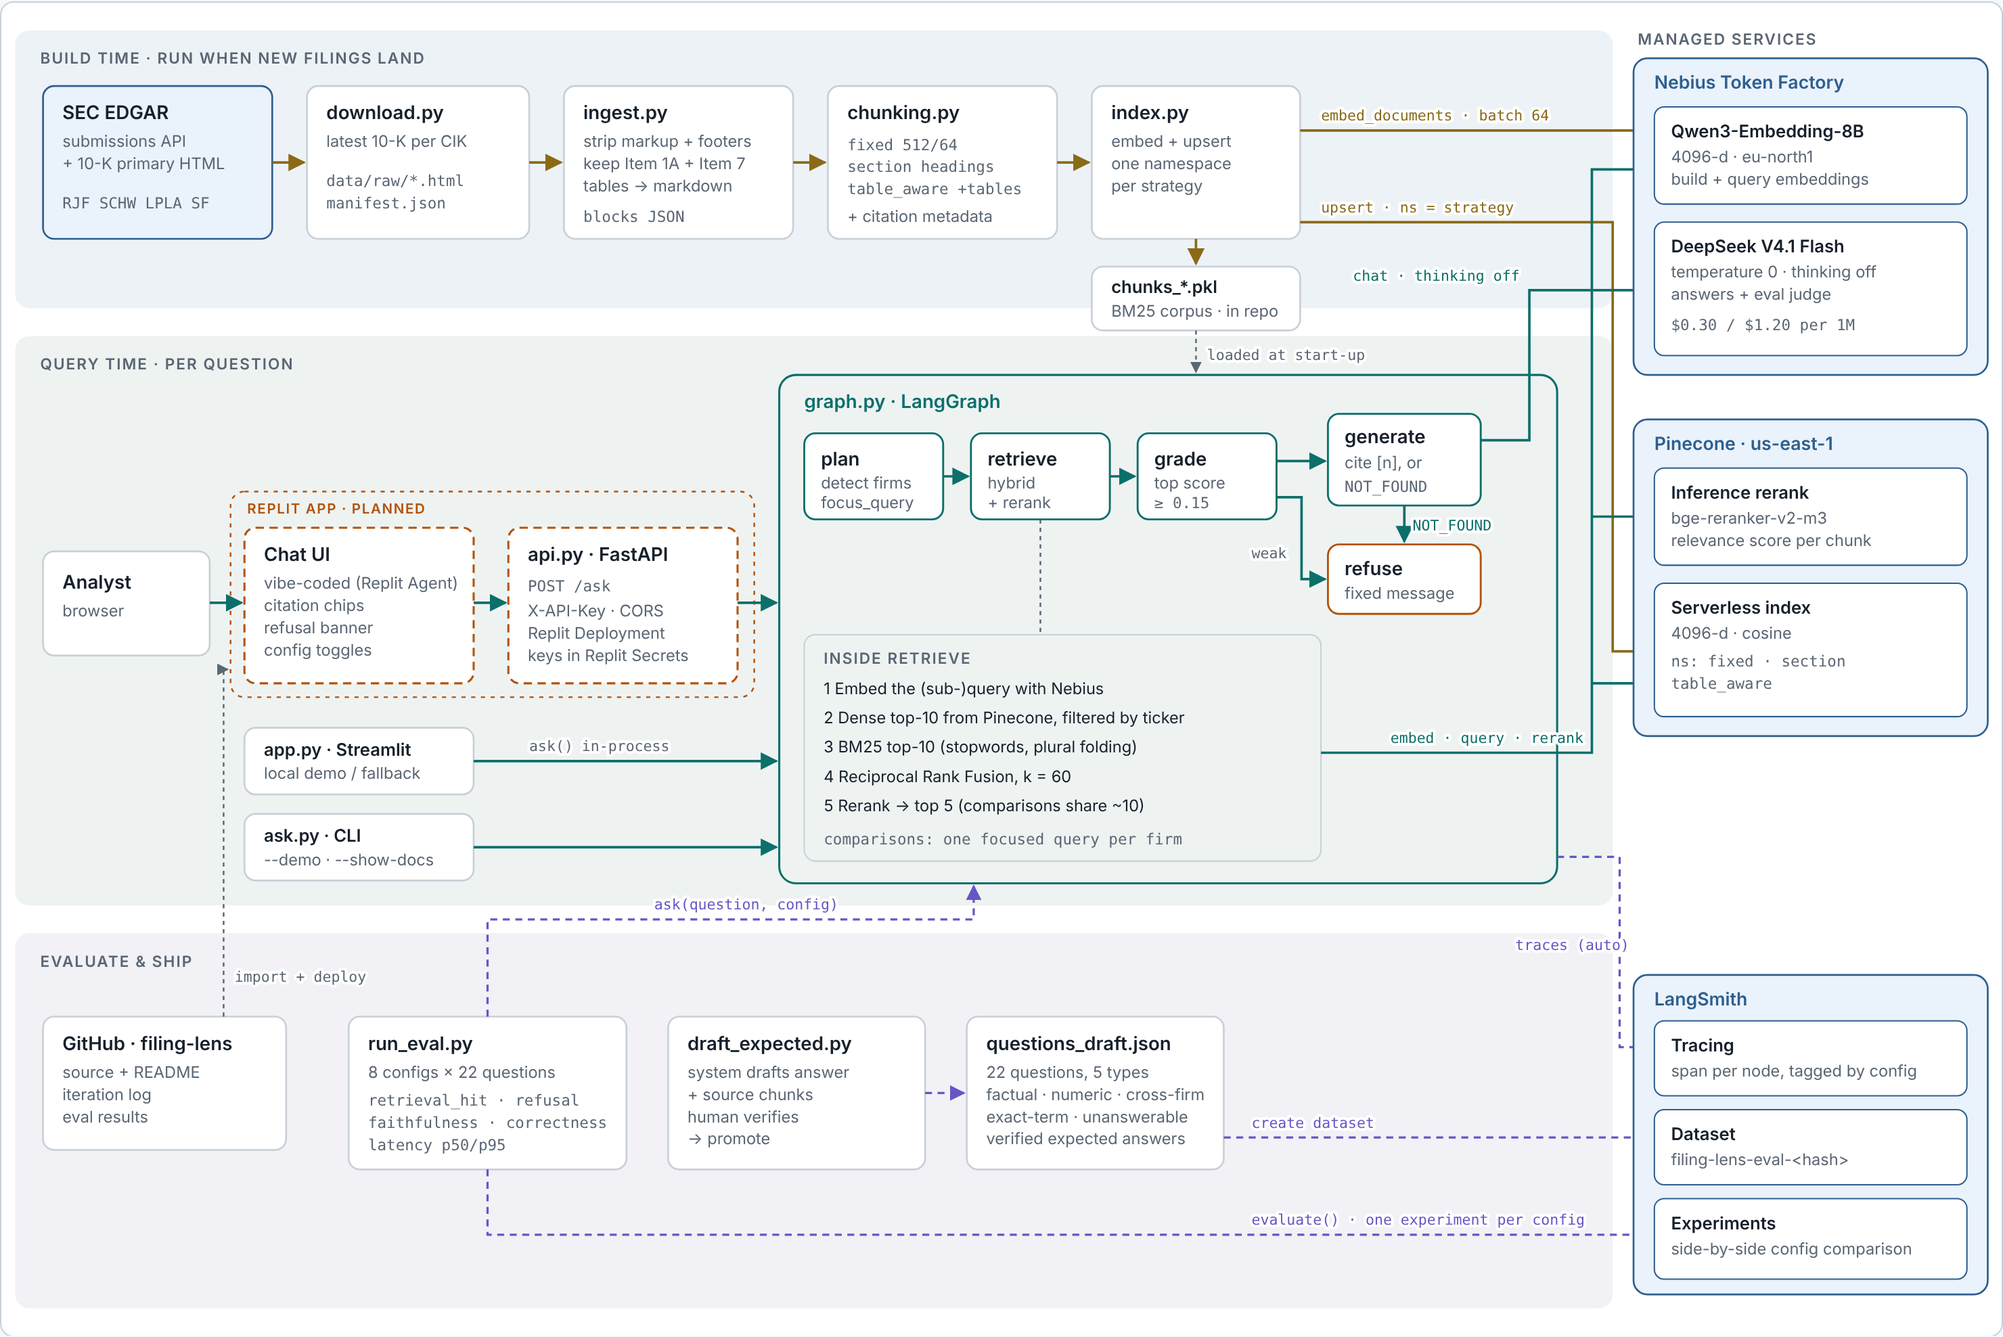
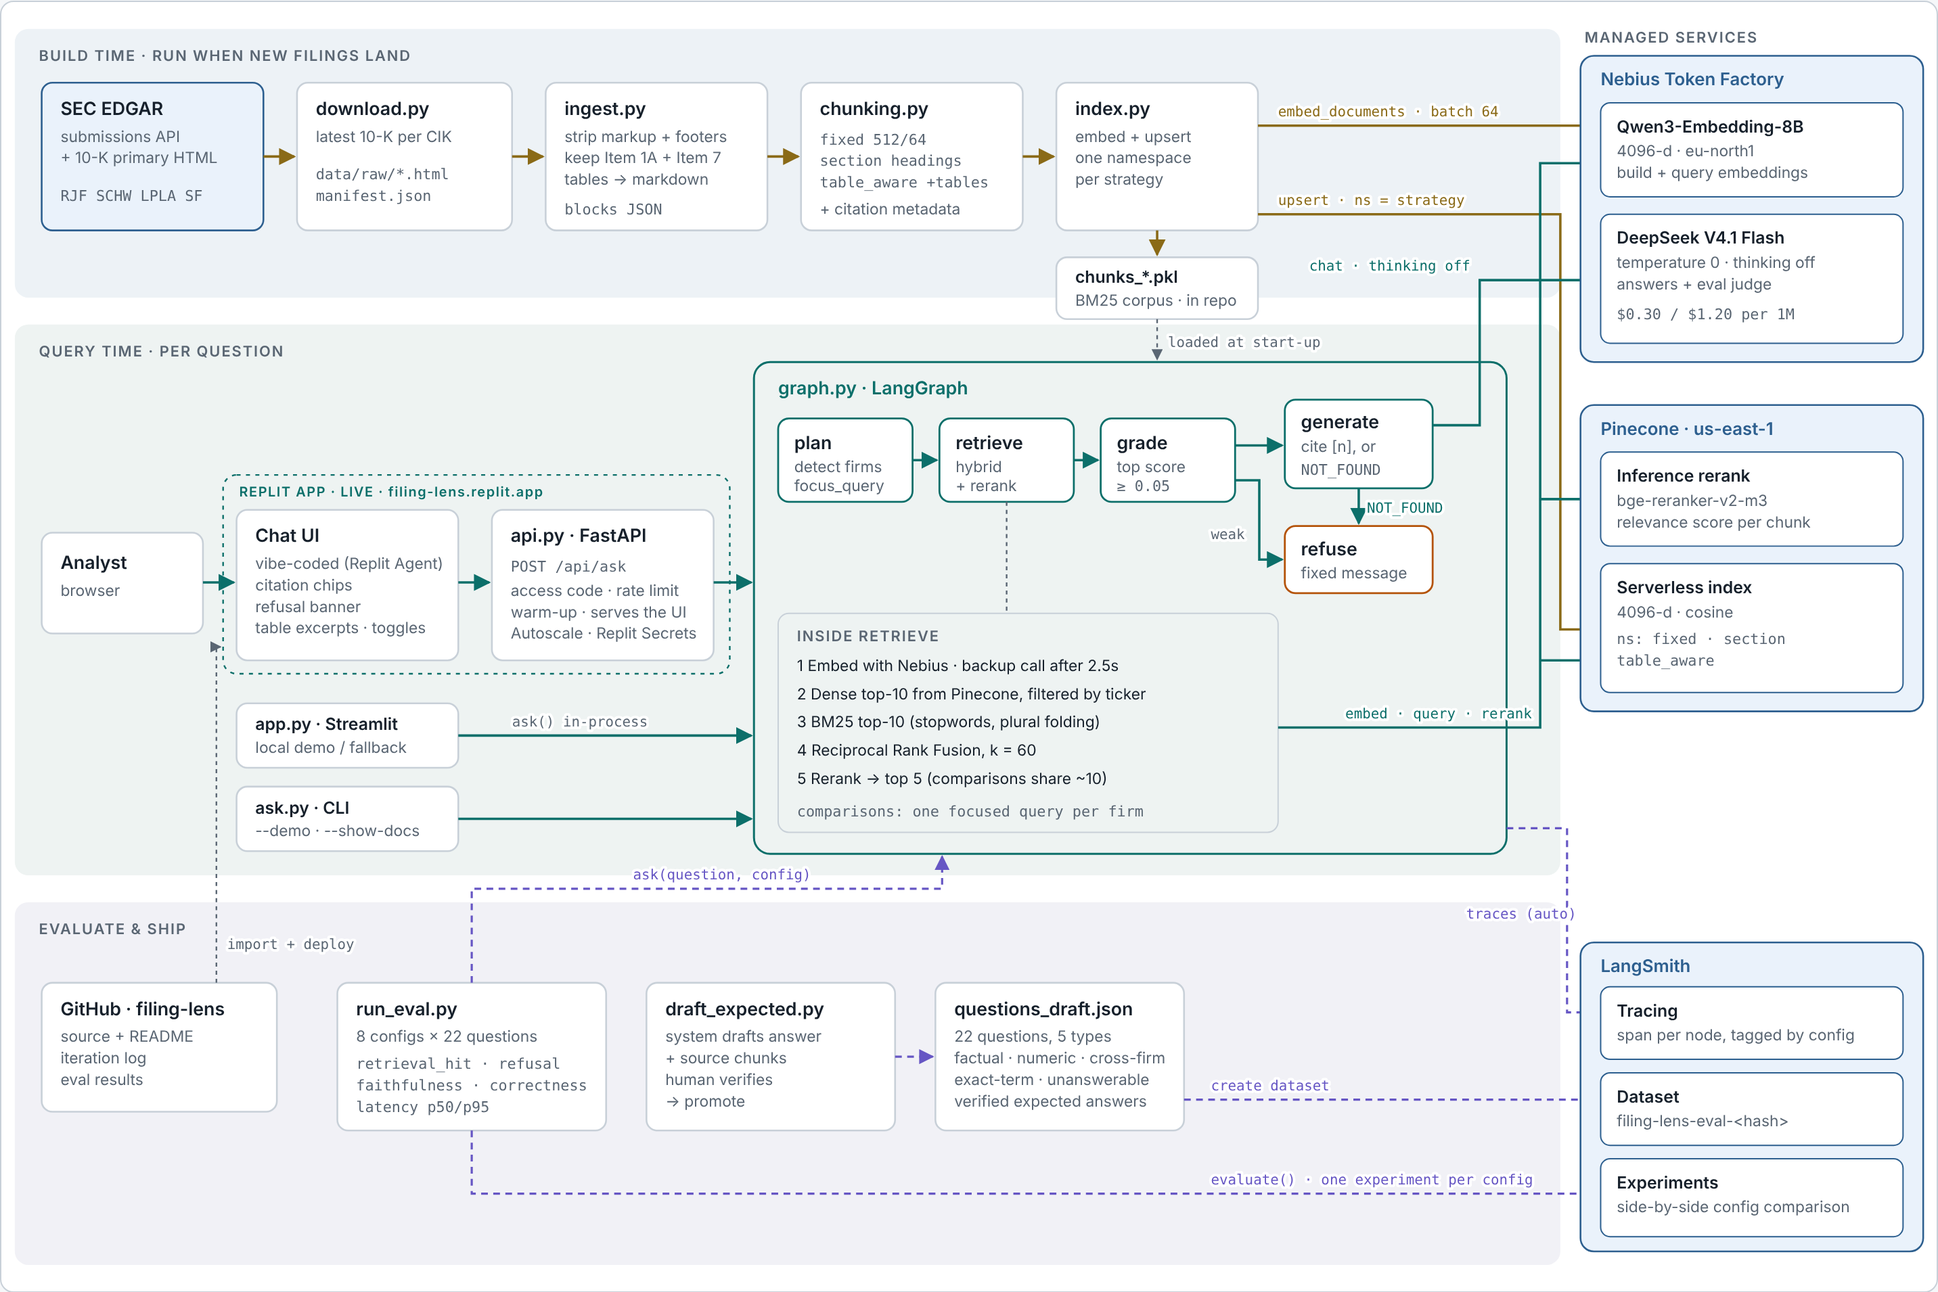
Docs: Day 4 iteration log, threshold re-run, architecture marked live

diff --git a/docs/architecture.html b/docs/architecture.html
@@ -52,6 +52,8 @@ svg .svcg { fill: var(--svc-bg); stroke: var(--svc); stroke-width: 1.3; }
 svg .svcbox { fill: var(--panel); stroke: var(--svc); stroke-width: 1; }
 svg .svc-title { font-size: 13px; font-weight: 600; fill: var(--svc); }
 svg .planned { fill: var(--panel); stroke: var(--planned); stroke-width: 1.5; stroke-dasharray: 6 4; }
+svg .live-group { fill: none; stroke: var(--q); stroke-width: 1.2; stroke-dasharray: 3 4; }
+svg .tag.live { fill: var(--q); }
 svg .planned-group { fill: none; stroke: var(--planned); stroke-width: 1.2; stroke-dasharray: 3 4; }
 svg .tag { font-size: 10px; font-weight: 600; letter-spacing: 0.08em; fill: var(--planned); }
 svg .graph { fill: none; stroke: var(--q); stroke-width: 1.5; }
@@ -93,7 +95,6 @@ td code, .notes code { font-family: var(--mono); font-size: 0.8rem; }
   <span><i class="sw q"></i>Query-time flow</span>
   <span><i class="sw o"></i>Tracing &amp; evaluation</span>
   <span><i class="box-sw built"></i>Built</span>
-  <span><i class="box-sw pl"></i>Planned (Friday)</span>
   <span><i class="box-sw svc"></i>Managed service</span>
 </div>
 
@@ -170,22 +171,22 @@ td code, .notes code { font-family: var(--mono); font-size: 0.8rem; }
   <text class="t" x="44" y="422">Analyst</text>
   <text class="s" x="44" y="442">browser</text>
 
-  <rect class="planned-group" x="165" y="352" width="377" height="148" rx="10"/>
-  <text class="tag" x="177" y="368">REPLIT APP · PLANNED</text>
+  <rect class="live-group" x="165" y="352" width="377" height="148" rx="10"/>
+  <text class="tag live" x="177" y="368">REPLIT APP · LIVE · filing-lens.replit.app</text>
 
-  <rect class="planned" x="175" y="378" width="165" height="112" rx="8"/>
+  <rect class="box" x="175" y="378" width="165" height="112" rx="8"/>
   <text class="t" x="189" y="402">Chat UI</text>
   <text class="s" x="189" y="422">vibe-coded (Replit Agent)</text>
   <text class="s" x="189" y="438">citation chips</text>
   <text class="s" x="189" y="454">refusal banner</text>
-  <text class="s" x="189" y="470">config toggles</text>
+  <text class="s" x="189" y="470">table excerpts · toggles</text>
 
-  <rect class="planned" x="365" y="378" width="165" height="112" rx="8"/>
+  <rect class="box" x="365" y="378" width="165" height="112" rx="8"/>
   <text class="t" x="379" y="402">api.py · FastAPI</text>
-  <text class="m" x="379" y="424">POST /ask</text>
-  <text class="s" x="379" y="442">X-API-Key · CORS</text>
-  <text class="s" x="379" y="458">Replit Deployment</text>
-  <text class="s" x="379" y="474">keys in Replit Secrets</text>
+  <text class="m" x="379" y="424">POST /api/ask</text>
+  <text class="s" x="379" y="442">access code · rate limit</text>
+  <text class="s" x="379" y="458">warm-up · serves the UI</text>
+  <text class="s" x="379" y="474">Autoscale · Replit Secrets</text>
 
   <path class="e-q" d="M150 432 H173" marker-end="url(#aq)"/>
   <path class="e-q" d="M340 432 H363" marker-end="url(#aq)"/>
@@ -218,7 +219,7 @@ td code, .notes code { font-family: var(--mono); font-size: 0.8rem; }
   <rect class="node" x="818" y="310" width="100" height="62" rx="8"/>
   <text class="t" x="830" y="333">grade</text>
   <text class="s" x="830" y="350">top score</text>
-  <text class="m" x="830" y="364">≥ 0.15</text>
+  <text class="m" x="830" y="364">≥ 0.05</text>
 
   <rect class="node" x="955" y="296" width="110" height="66" rx="8"/>
   <text class="t" x="967" y="317">generate</text>
@@ -241,7 +242,7 @@ td code, .notes code { font-family: var(--mono); font-size: 0.8rem; }
   <path class="e-link" d="M748 372 V453"/>
   <rect class="panel" x="578" y="455" width="372" height="163" rx="8"/>
   <text class="lane-label" x="592" y="476">INSIDE RETRIEVE</text>
-  <text class="s" x="592" y="498" style="fill:var(--ink)">1  Embed the (sub-)query with Nebius</text>
+  <text class="s" x="592" y="498" style="fill:var(--ink)">1  Embed with Nebius · backup call after 2.5s</text>
   <text class="s" x="592" y="519" style="fill:var(--ink)">2  Dense top-10 from Pinecone, filtered by ticker</text>
   <text class="s" x="592" y="540" style="fill:var(--ink)">3  BM25 top-10 (stopwords, plural folding)</text>
   <text class="s" x="592" y="561" style="fill:var(--ink)">4  Reciprocal Rank Fusion, k = 60</text>
@@ -347,7 +348,7 @@ td code, .notes code { font-family: var(--mono); font-size: 0.8rem; }
 <table>
   <thead><tr><th>From → To</th><th>Interface</th><th>Payload</th><th>Status</th></tr></thead>
   <tbody>
-    <tr><td>Chat UI → api.py</td><td>HTTPS <code>POST /ask</code>, <code>X-API-Key</code> header, CORS for the UI origin</td><td><code>{question, strategy?, retriever?, rerank?}</code> → <code>{answer, citations[], refused, refusal_reason, timings}</code></td><td><span class="chip planned">PLANNED</span></td></tr>
+    <tr><td>Chat UI → api.py</td><td>HTTPS <code>POST /api/ask</code>, same origin, <code>X-Access-Code</code> typed by the user</td><td><code>{question, strategy?, retriever?, rerank?}</code> → <code>{answer, citations[] (with excerpt), refused, refusal_reason, companies, top_score, timings, config}</code></td><td><span class="chip built">BUILT</span></td></tr>
     <tr><td>api.py · app.py · ask.py → graph.py</td><td>In-process Python call <code>ask()</code></td><td>Question + config in, <code>RAGState</code> out</td><td><span class="chip built">BUILT</span></td></tr>
     <tr><td>retrieve → Nebius</td><td>OpenAI-compatible embeddings via <code>langchain-nebius</code></td><td>One 4096-d vector per (sub-)query</td><td><span class="chip built">BUILT</span></td></tr>
     <tr><td>retrieve → Pinecone index</td><td>Vector query, top-10, metadata filter <code>ticker</code>, namespace = strategy</td><td>Chunk text + ticker, item, heading, kind, <code>chunk_id</code></td><td><span class="chip built">BUILT</span></td></tr>

diff --git a/docs/ARCHITECTURE.md b/docs/ARCHITECTURE.md
@@ -4,7 +4,7 @@ Hybrid RAG over the latest 10-K filings of Raymond James (RJF), Charles Schwab (
 
 ![Filing Lens architecture](filing-lens-architecture.png)
 
-**Status:** the pipeline, evaluation and FastAPI service are built. The Replit chat UI and hosted deployment are *planned* (Friday).
+**Status:** built and live. The chat UI and API run as one Replit Autoscale deployment at [filing-lens.replit.app](https://filing-lens.replit.app) (access code required).
 
 ---
 
@@ -28,9 +28,9 @@ flowchart TB
 
   subgraph QUERY["② Query"]
     direction LR
-    UI["Chat UI · Replit<br/>(planned)"] -->|"POST /api/ask"| API["api.py · FastAPI"] --> PLAN
+    UI["Chat UI · Replit<br/>(live)"] -->|"POST /api/ask"| API["api.py · FastAPI"] --> PLAN
     LOCAL["app.py · ask.py"] --> PLAN
-    PLAN["plan"] --> RET["retrieve<br/>dense + BM25 → RRF → rerank"] --> GRADE{"grade<br/>≥ 0.15"}
+    PLAN["plan"] --> RET["retrieve<br/>dense + BM25 → RRF → rerank"] --> GRADE{"grade<br/>≥ 0.05"}
     GRADE -->|relevant| GEN["generate<br/>cited answer"]
     GRADE -->|weak| REF["refuse"]
     GEN -->|NOT_FOUND| REF
@@ -84,7 +84,7 @@ sequenceDiagram
     G->>G: BM25 top-10, fuse with RRF
     G->>P: rerank candidates
   end
-  G->>G: grade: best score ≥ 0.15?
+  G->>G: grade: best score ≥ 0.05?
   G->>N: generate with numbered context (thinking off)
   N-->>G: cited answer, or NOT_FOUND
   G-->>L: spans for every node (async)
@@ -114,7 +114,7 @@ sequenceDiagram
 
 | From → To | Interface | Payload | Status |
 |---|---|---|---|
-| Chat UI → `api.py` | HTTPS `POST /api/ask`, same origin, `X-Access-Code` header typed by the user | `{question, strategy?, retriever?, rerank?}` → `{answer, citations[] (with excerpt), refused, refusal_reason, companies, top_score, timings, config}` | API built · UI planned |
+| Chat UI → `api.py` | HTTPS `POST /api/ask`, same origin, `X-Access-Code` header typed by the user | `{question, strategy?, retriever?, rerank?}` → `{answer, citations[] (with excerpt), refused, refusal_reason, companies, top_score, timings, config}` | Built |
 | `api.py` / `app.py` / `ask.py` → `graph.py` | In-process `ask()` | Question + config in, `RAGState` out | Built |
 | retrieve → Nebius | OpenAI-compatible embeddings (`langchain-nebius`) | One 4096-d vector per (sub-)query | Built |
 | retrieve → Pinecone index | Vector query, top-10, `ticker` filter, namespace = strategy | Chunk text + `ticker`, `item`, `heading`, `kind`, `chunk_id` | Built |
@@ -130,7 +130,7 @@ sequenceDiagram
 | Piece | Where | Secrets |
 |---|---|---|
 | Source, chunk files, eval results | GitHub | none (`.env` is git-ignored) |
-| `api.py` + chat UI | Replit app imported from GitHub, Autoscale deployment ([setup](REPLIT_SETUP.md)) | Replit Secrets: Nebius, Pinecone, LangSmith keys, `APP_ACCESS_CODE` |
+| `api.py` + chat UI | Replit app imported from GitHub, Autoscale deployment with 1 machine at [filing-lens.replit.app](https://filing-lens.replit.app) ([setup](REPLIT_SETUP.md)) | Replit Secrets: Nebius, Pinecone, LangSmith keys, `APP_ACCESS_CODE` |
 | Vectors, rerank | Pinecone serverless, AWS us-east-1 | `PINECONE_API_KEY` |
 | Embeddings, generation, eval judge | Nebius Token Factory (embeddings served from eu-north1) | `NEBIUS_API_KEY` |
 | Traces, dataset, experiments | LangSmith | `LANGSMITH_API_KEY` |
@@ -145,7 +145,13 @@ sequenceDiagram
 
 **Hybrid over keyword-only.** BM25 alone failed the RJF vs LPL revenue question: numeric tables share few words with the question. Dense retrieval recovers them; BM25 still helps on exact terms such as program names.
 
-**Latency.** The chat model emitted hidden reasoning tokens even though the catalog lists none; disabling it (`chat_template_kwargs.thinking=false`) and warming clients at start-up brought demo questions to 1.9–6.4s end to end. The largest remaining cost is the cross-region embedding call (Nebius eu-north1, Pinecone us-east-1).
+**Latency.** The chat model emitted hidden reasoning tokens even though the catalog lists none; disabling it (`chat_template_kwargs.thinking=false`) brought demo questions to 1.9–6.4s end to end. On Replit three more fixes followed, each found from the per-step timings the API returns:
+
+- Warm-up runs one real retrieval per namespace, not just client set-up: the first live answer went from 37.1s to 2.8s.
+- Comparisons embed each firm's query one at a time before the parallel search: concurrent calls to the shared Nebius embedding endpoint took ~9s each. 17.9s → 4.6s.
+- Embedding calls are hedged: if Nebius hasn't answered in 2.5s, a backup request goes out and the first answer wins. LangSmith showed `embed_query` at 10.6s of a 12.9s question while Pinecone, rerank and generation stayed fast. When both requests stall, the spike remains; a dedicated endpoint would remove it.
+
+**Relevance threshold 0.05.** At 0.15, "What does LPL say about cybersecurity risk?" was refused although the right chunks ranked 2nd and 5th: the reranker scored them 0.11 because the filing says "security risks" and "cyber-attack". At 0.05 the eval's correctness rose from 0.72 to 0.81 with refusal accuracy unchanged, since the generation gate still refuses unanswerable questions.
 
 ---
 

diff --git a/README.md b/README.md
@@ -69,7 +69,7 @@ Judge: an OpenAI model (`JUDGE_MODEL`, default `gpt-4.1-mini`) grades faithfulne
 uvicorn api:app --reload --port 8000     # docs at http://localhost:8000/docs
 ```
 `POST /api/ask` returns the answer, citations with source excerpts, refusal reason, timings and config. Set `APP_ACCESS_CODE` to require an access code (sent as `X-Access-Code`); a per-IP rate limit caps spend.
-Hosting: one Replit app serves the API and the vibe-coded front end. Setup: [docs/REPLIT_SETUP.md](docs/REPLIT_SETUP.md). Agent prompt: [docs/REPLIT_AGENT_PROMPT.md](docs/REPLIT_AGENT_PROMPT.md).
+**Live:** [filing-lens.replit.app](https://filing-lens.replit.app) (access code required). Hosting: one Replit app serves the API and the vibe-coded front end. Setup: [docs/REPLIT_SETUP.md](docs/REPLIT_SETUP.md). Agent prompt: [docs/REPLIT_AGENT_PROMPT.md](docs/REPLIT_AGENT_PROMPT.md).
 
 ## Local chat UI (Streamlit)
 
@@ -113,3 +113,11 @@ Record every change and its effect here; it becomes the "iterations + learnings"
 - Day 3 ground truth: system-drafted expected answers checked claim by claim against their source passages; unverifiable claims removed; F01, C04 (Schwab's chunks fell below the relevance threshold) and N04 (Institutional Group table not retrieved) written from filing text.
 - Day 3 full eval (22 Qs x 8 configs, `docs/EVALUATION.md`): structured chunking beats fixed on correctness (0.72 vs 0.56); table_aware wins numeric (0.92 vs 0.33 fixed), section wins cross-company (0.88), fixed wins narrative factual (0.67 vs 0.50 table_aware: tables crowd prose). Rerank adds 0.11-0.17 correctness for every retriever. All 32 unanswerable cases refused. Default chosen: table_aware/hybrid+rerank (refusal 0.95, faithfulness 0.92, correctness 0.72, p50 2.65s).
 - Day 3 fixed re-run in isolation: latency 2.74s avg (vs 9.36s in the shared run, a warm-up artifact); correctness 0.53 vs 0.56 and faithfulness 0.95 vs 0.89 give a run-to-run noise band of about ±0.05.
+
+- Day 4 hosting: first live answer took 37.1s (retrieve 35.6s) although warm-up had loaded the clients: the first Pinecone query and rerank call were still cold. Warm-up now runs one real retrieval per namespace, and `/api/ask` returns `retrieve_breakdown`. Same question: 2.8s.
+- Day 4 comparison latency on Replit: 17.9s with embed 18.3s summed across the two per-firm threads (~9s each vs 0.5s alone): concurrent calls to the shared Nebius embedding endpoint slow each other. Per-firm queries are now embedded one at a time, then searched in parallel: 4.6s.
+- Day 4 latency spikes: some single-firm questions still took 10-12s. LangSmith trace: `embed_query` 10.59s of 12.94s; Pinecone 0.3s, rerank 0.53s, generate 1.49s; the same call from a laptop took 0.56s. Embedding calls are now hedged (backup request after 2.5s, first answer wins): rescued one stall (3.0s), but when both requests stall the spike remains (11.2s). Documented as a provider limitation; a dedicated endpoint would remove it.
+- Day 4 false refusal found on the live app: "What does LPL say about cybersecurity risk?" refused at the retrieval gate. `--show-docs` showed the right chunks at ranks 2 and 5 (`1A-0029`, `1A-0031`), best rerank 0.11 < 0.15: wording mismatch ("security risks", "cyber-attack"). Threshold 0.15 -> 0.05; eval re-run on the default config: correctness 0.72 -> 0.81, refusal accuracy 0.95 -> 0.955, faithfulness 0.92 -> 0.917 (`docs/EVALUATION.md`).
+- Day 4 deployment: Replit's security scan blocked publishing (24 findings, 2 critical: certifi, requests, httpx2, httpcore2). `pip show` showed current versions installed; the scanner assumed old ones because `requirements.txt` was unpinned. Minimum versions added; rescan: 0 findings.
+- Day 4 front end: table passages in the excerpt panel rendered as raw markdown; now rendered as HTML tables. Remaining issue: multi-row SEC table headers are flattened into one header row, so some headers sit over the wrong columns.
+- Day 4 live checks: answers cite correctly; comparisons flag differing fiscal year-ends and revenue definitions; both refusal gates seen live (gate 1: top match 0.002; gate 2: top match 0.86). One generation slip seen once: "RJF quantifies recruiting spend" introducing Stifel's $228.5M figure (number and citation right; a rerun phrased it correctly).

diff --git a/docs/EVALUATION.md b/docs/EVALUATION.md
@@ -76,9 +76,24 @@ Answers from DeepSeek V4.1 Flash; faithfulness and correctness graded by an inde
 
 Faithfulness counts statements about absence ("the segment margin is not disclosed in the context") as unsupported claims. N05 is fully correct (correctness 1.0) but scores 0.5 faithfulness for this reason. Reported faithfulness is therefore a slight underestimate for answers that flag missing data.
 
+## Threshold re-run (after live testing)
+
+On the live app, "What does LPL say about cybersecurity risk?" was refused at the retrieval gate. The content was indexed and retrieved: `LPLA-table_aware-1A-0029` ("Our information technology systems may be vulnerable to security risks") ranked 2nd and `1A-0031` ("A cyber-attack or other security breach…") 5th. But the best rerank score was 0.11, under the 0.15 threshold, because the filing's wording ("security risks", "cyber-attack") differs from the question's ("cybersecurity risk").
+
+The default configuration was re-run on the same 22 questions with `RELEVANCE_THRESHOLD=0.05` (`run_eval --only "table_aware/hybrid+rr"`; results in `eval/results/eval_summary_table_aware_hybrid_rr.md`):
+
+| Threshold | Retrieval hit | Refusal correct | Faithfulness | Correctness |
+|---|---|---|---|---|
+| 0.15 | 0.93 | 0.95 | 0.92 | 0.72 |
+| **0.05** | 0.94 | 0.955 | 0.917 | **0.81** |
+
+Correctness rose by 0.09, above the ±0.05 run-to-run noise; refusals and faithfulness didn't move. The generation gate still refuses all four unanswerable questions, so the retrieval gate can be looser. Latency in this run (4.9s average) isn't comparable: the eval sends 4 questions at once, which is exactly the concurrent-embedding pattern the shared Nebius endpoint slows down on.
+
+**0.05 is now the default** (`src/config.py`).
+
 ## Decisions
 
-- **Default: `table_aware / hybrid + rerank`.** It has the best refusal accuracy (0.95) and faithfulness (0.92, meeting the ≥ 0.90 target) and ties for best correctness.
+- **Default: `table_aware / hybrid + rerank`.** It has the best refusal accuracy (0.95) and faithfulness (0.92, meeting the ≥ 0.90 target) and ties for best correctness. With the relevance threshold lowered to 0.05, its correctness is 0.81.
 - **Latency:** p50 2.65s meets the ≤ 5s target; p95 6.54s does not, driven by comparison questions. Per-firm retrieval now runs in parallel (shipped after this run).
 
 ## Next iterations
@@ -90,4 +105,5 @@ Faithfulness counts statements about absence ("the segment margin is not disclos
 | Split long multi-topic risk factors; embed risk-factor titles separately | Makes "market risk, including interest rate risk" findable |
 | Per-firm minimum after the relevance threshold | Stops a firm silently disappearing from 4-firm answers |
 | Judge prompt: ignore statements about what the context lacks | Removes the faithfulness underestimate |
+| Calibrate the relevance threshold per question type, or replace it with a rank-based gate | Reranker scores vary with wording; a fixed cutoff refused a valid question |
 | Passage-level retrieval metric (expected chunk IDs) | `retrieval_hit` at company + Item level is too coarse: BM25 scores 1.0 on it with the worst correctness |
